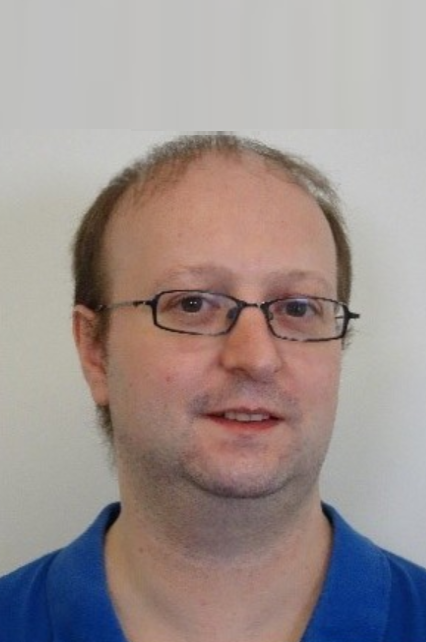
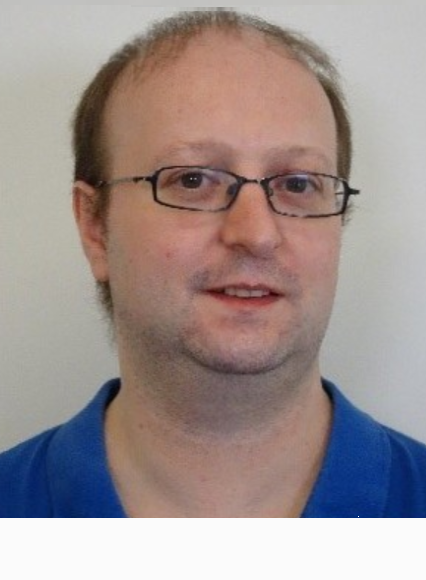
foto implemetiert

diff --git a/index.html b/index.html
@@ -85,7 +85,7 @@
                             </div> <!-- navbar collapse -->
                         </nav> <!-- navbar -->
                     </div>
-                </div> <!-- row -->
+                </div> <!-- row --> 
             </div> <!-- container -->
         </div> <!-- navigation -->
 
@@ -326,50 +326,10 @@
                         </div>
                     </div> <!-- single service -->
                 </div>
-                <div class="col-lg-4 col-md-6 col-sm-8">
-                    <div class="single-service text-center mt-30">
-                        <div class="service-icon">
-                            <i class="lni-mobile"></i>
-                        </div>
-                        <div class="service-content">
-                            <h4 class="service-title"><a href="#">App Design</a></h4>
-                            <p>Curabitur vitae magna felis. Nulla ac libero ornare, vestibulum lacus quis blandit enimdicta sunt.</p>
-                        </div>
-                    </div> <!-- single service -->
-                </div>
-                <div class="col-lg-4 col-md-6 col-sm-8">
-                    <div class="single-service text-center mt-30">
-                        <div class="service-icon">
-                            <i class="lni-vector"></i>
-                        </div>
-                        <div class="service-content">
-                            <h4 class="service-title"><a href="#">Illustration Design</a></h4>
-                            <p>Curabitur vitae magna felis. Nulla ac libero ornare, vestibulum lacus quis blandit enimdicta sunt.</p>
-                        </div>
-                    </div> <!-- single service -->
-                </div>
-                <div class="col-lg-4 col-md-6 col-sm-8">
-                    <div class="single-service text-center mt-30">
-                        <div class="service-icon">
-                            <i class="lni-website"></i>
-                        </div>
-                        <div class="service-content">
-                            <h4 class="service-title"><a href="#">Web Development</a></h4>
-                            <p>Curabitur vitae magna felis. Nulla ac libero ornare, vestibulum lacus quis blandit enimdicta sunt.</p>
-                        </div>
-                    </div> <!-- single service -->
-                </div>
-                <div class="col-lg-4 col-md-6 col-sm-8">
-                    <div class="single-service text-center mt-30">
-                        <div class="service-icon">
-                            <i class="lni-support"></i>
-                        </div>
-                        <div class="service-content">
-                            <h4 class="service-title"><a href="#">Consultancy and Support</a></h4>
-                            <p>Curabitur vitae magna felis. Nulla ac libero ornare, vestibulum lacus quis blandit enimdicta sunt.</p>
-                        </div>
-                    </div> <!-- single service -->
-                </div>
+          
+             
+              
+             
             </div> <!-- row -->
         </div> <!-- container -->
     </section>
@@ -668,7 +628,7 @@
                 <div class="row">
                     <div class="col-lg-12">
                         <div class="copyright-text text-center pt-20">
-                            <p>Template by <a href="https://uideck.com" rel="nofollow">UIdeck</a></p>
+                            <p>Copyright by <a href="#" rel="nofollow">Simon Willener</a></p>
                         </div> <!-- copyright text -->
                     </div>
                 </div> <!-- row -->
